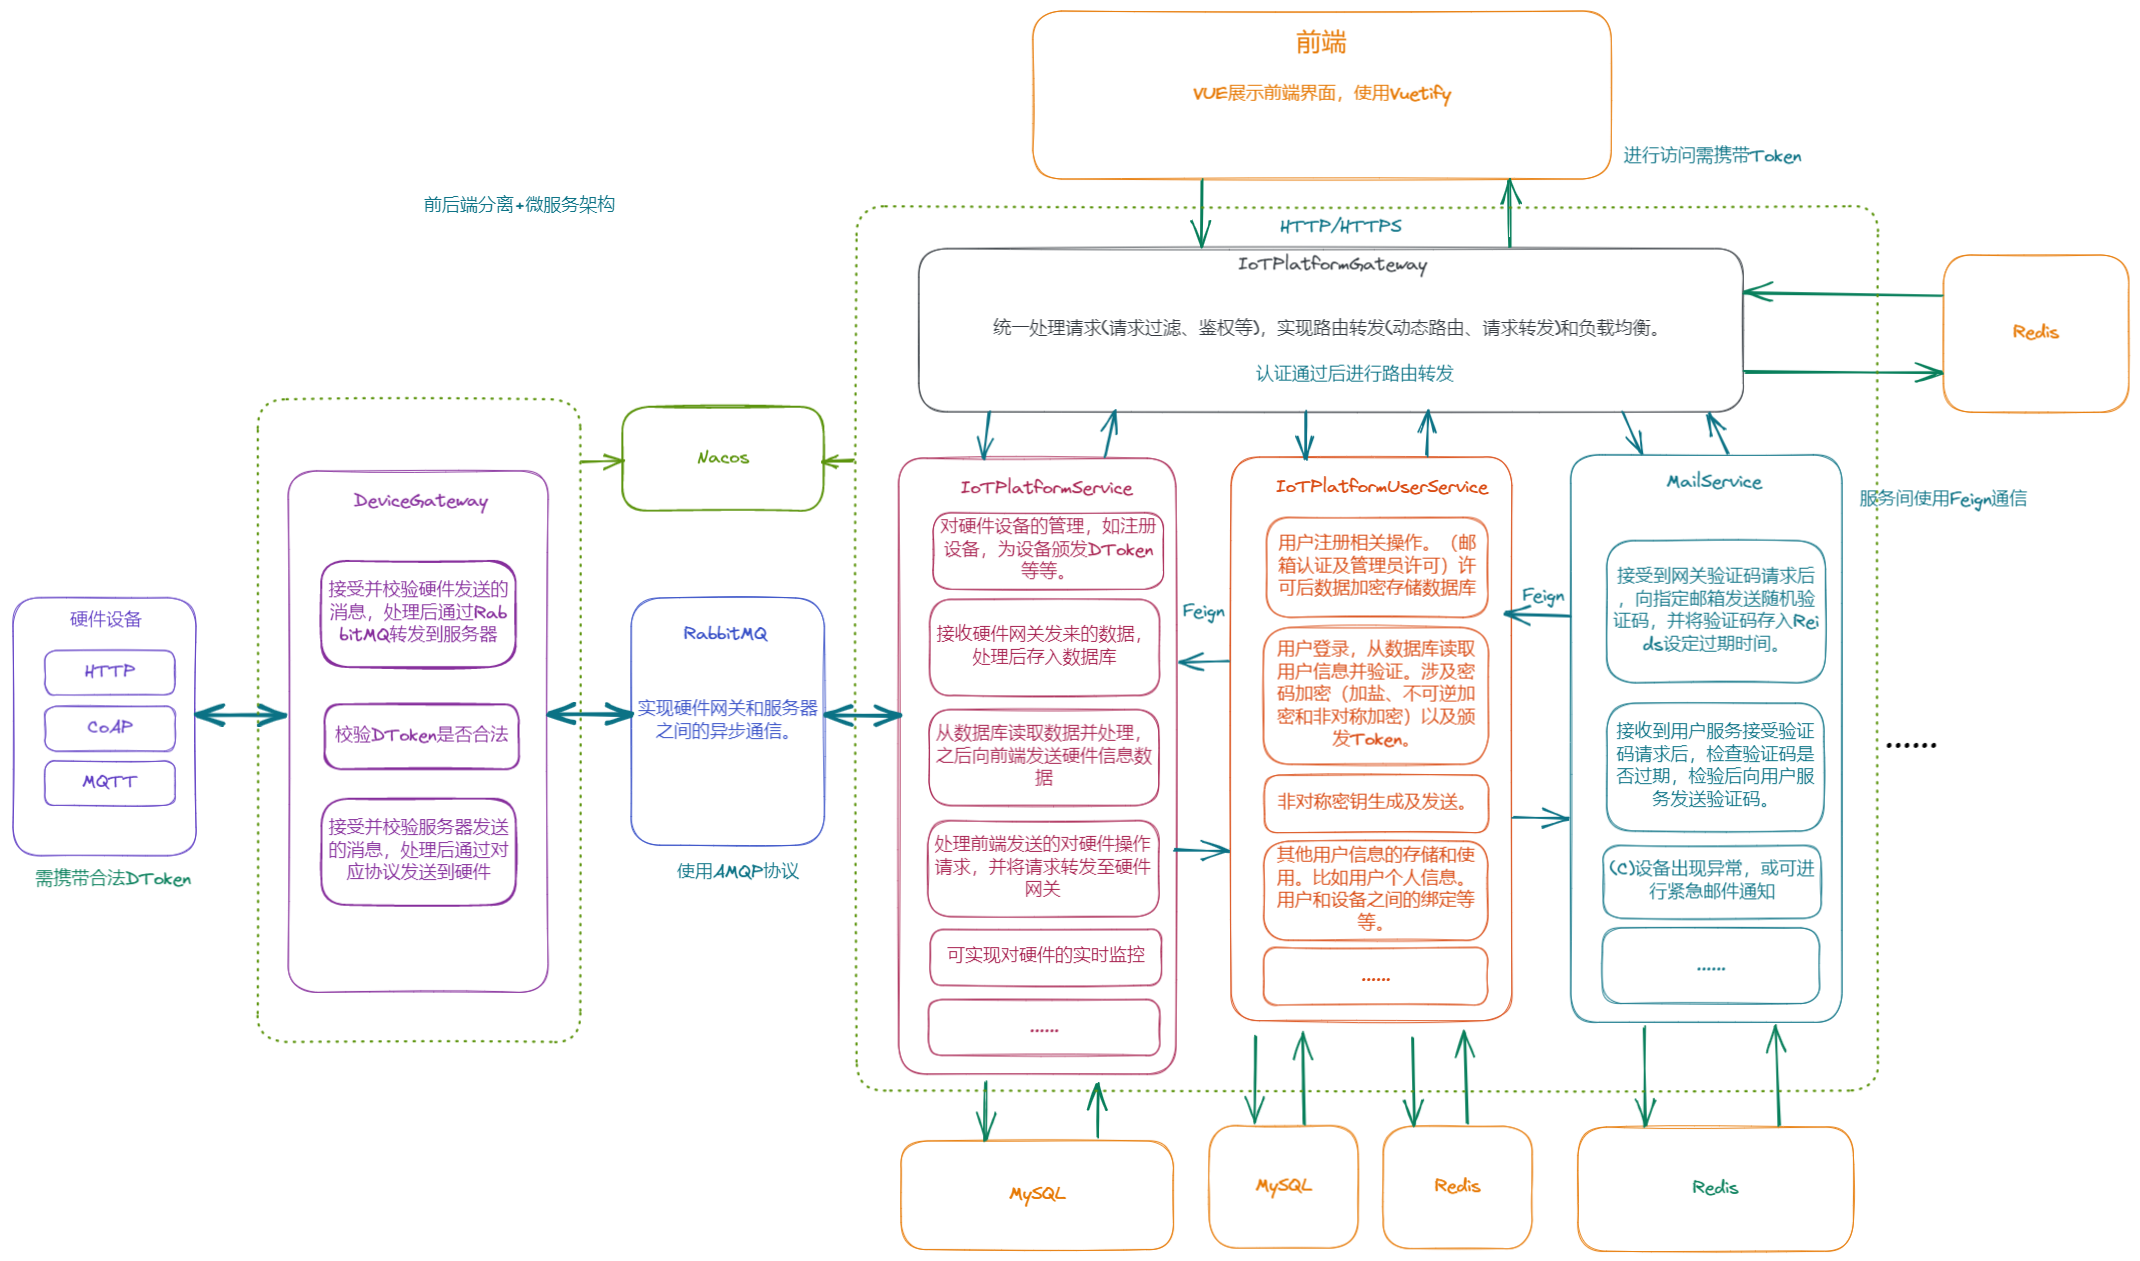
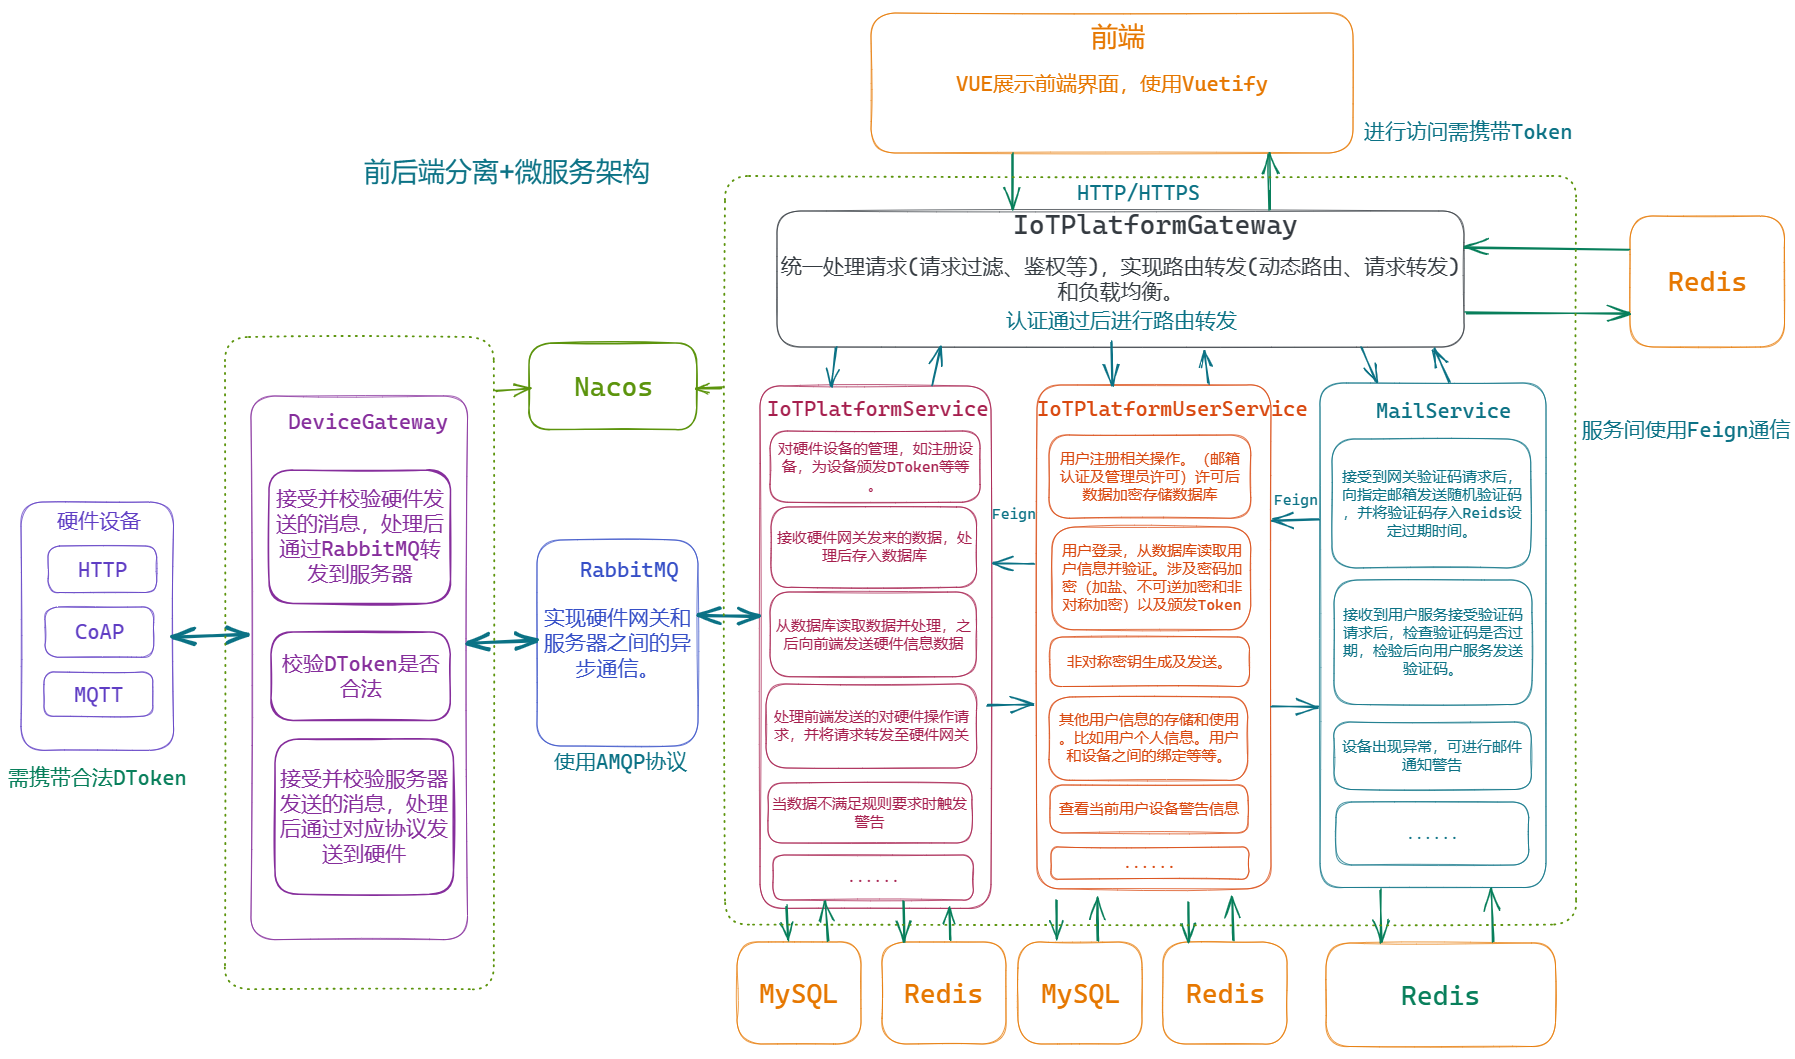
推送图片及文档

diff --git a/README.md b/README.md
@@ -89,15 +89,43 @@ http://localhost:19898
 
 ## 功能架构略图
 
-整体功能架构如下图所示(目前稍有变化，后续会更新新的图示)：
+系统架构图如下：
+
+![3](https://github.com/WeiLaiR/WLRIoTPlatform/blob/master/Aimg/draw03.png)
+
+整体功能架构如下图所示：
 
 ![1](https://github.com/WeiLaiR/WLRIoTPlatform/blob/master/Aimg/draw01.png)
 
+部署后用户访问流程如下：
+
+![2](https://github.com/WeiLaiR/WLRIoTPlatform/blob/master/Aimg/draw02.png)
 
 ## 展示
 
 * 主页：
 
-  ![1](https://github.com/WeiLaiR/WLRIoTPlatform/blob/master/Aimg/home.png)
+  ![home](https://github.com/WeiLaiR/WLRIoTPlatform/blob/master/Aimg/home.png)
+
+* 设备管理：
+
+  ![device](https://github.com/WeiLaiR/WLRIoTPlatform/blob/master/Aimg/4.4.jpg)
+
+* 数据统计：
+
+  ![data](https://github.com/WeiLaiR/WLRIoTPlatform/blob/master/Aimg/4.7.jpg)
+
+* 消息通知：
+
+  ![message](https://github.com/WeiLaiR/WLRIoTPlatform/blob/master/Aimg/4.10.jpg)
+
+* 邮件验证码：
+
+  ![email01](https://github.com/WeiLaiR/WLRIoTPlatform/blob/master/Aimg/email01.png)
+
+* 警告通知邮件：
+
+  ![email02](https://github.com/WeiLaiR/WLRIoTPlatform/blob/master/Aimg/email02.png)
 
 
+以上仅为部分内容展示，更多内容请自行体验。
